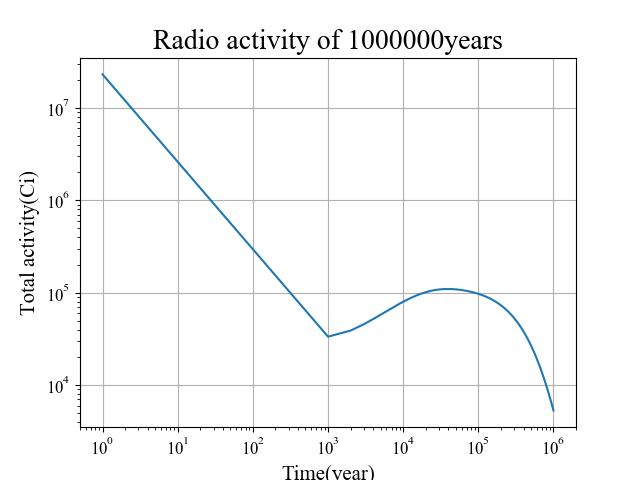
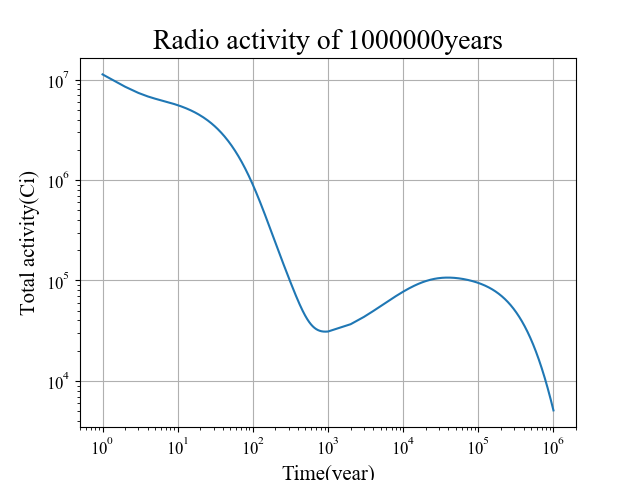
modified the code to calculate the cases with powers already existed in the library.

diff --git a/func.py b/func.py
@@ -11,7 +11,6 @@ from scipy.interpolate import lagrange  # Lagrange 插值方法
 from decay.decay import CRAM48  # 导入decay模块
 
 
-# 卸堆核素浓度计算
 def mass_off(time, index1, index2):
     f = h5py.File(sys.path[0] + "/lib/FCDB.hdf5", "r")
     s1 = "MSBR_0" + str(index1 + 1) + "/"
@@ -33,11 +32,11 @@ def initialize(P):
         for key, value in grp.attrs.items():
             if key == "SpecificPower":
                 PowerDensity = np.append(PowerDensity, value)
-
     # 根据给定的功率密度对核素浓度进行插值
     for i in range(num):
         if float(P) == PowerDensity[i]:
-            pass  # 有待添加
+            min0 = i
+            max0 = i
     for i in range(num - 1):
         if PowerDensity[i] < float(P) < PowerDensity[i + 1]:
             min0 = i  # mass 函数输入参数
@@ -146,12 +145,15 @@ def fission_product(power):
           1352, 1353, 1355, 1356, 1357, 1358, 1359, 1360, 1361, 1362, 1369, 1370, 1372, 1373, 1374, 1375, 1385,
           1386]
     for j in fp:
-        m1 = mass_off(year, min, j)
-        m2 = mass_off(year, max, j)
-        x = [PowerDensity[min], PowerDensity[max]]
-        y = [m1, m2]
-        func = lagrange(x, y)
-        m3 = func(float(power))
+        if min == max:
+            m3 = mass_off(year, min, j)
+        else:
+            m1 = mass_off(year, min, j)
+            m2 = mass_off(year, max, j)
+            x = [PowerDensity[min], PowerDensity[max]]
+            y = [m1, m2]
+            func = lagrange(x, y)
+            m3 = func(float(power))
         Mass_fp = Mass_fp + mole2kg(m3, j)
     return Mass_fp
 
@@ -165,12 +167,15 @@ def transuranium(power):
            1640, 1641, 1642, 1643, 1644, 1645, 1646, 1647, 1648, 1649, 1650, 1651, 1652, 1653, 1654, 1655, 1656,
            1657, 1658, 1659, 1660, 1661, 1662, 1663, 1664, 1665, 1666, 1667, 1668, 1669]
     for i in tru:
-        m1 = mass_off(year, min, i)
-        m2 = mass_off(year, max, i)
-        x = [PowerDensity[min], PowerDensity[max]]
-        y = [m1, m2]
-        func = lagrange(x, y)
-        m3 = func(float(power))
+        if min == max:
+            m3 = mass_off(year, min, i)
+        else:
+            m1 = mass_off(year, min, i)
+            m2 = mass_off(year, max, i)
+            x = [PowerDensity[min], PowerDensity[max]]
+            y = [m1, m2]
+            func = lagrange(x, y)
+            m3 = func(float(power))
         Mass_tru = Mass_tru + mole2kg(m3, i)
     return Mass_tru
 
@@ -192,16 +197,20 @@ def mass(time, index1, index2):
 def nuc1(power, nuclid):
     year = 109  # 年份，单位：年
     min, max, PowerDensity = initialize(power)
-    # 准备插值数据
-    mass1 = mass(year, min, nuclid)
-    mass2 = mass(year, max, nuclid)
-    # 插值
     mass3 = np.array([])
-    for i in range(0, year + 1):
-        x = [PowerDensity[min], PowerDensity[max]]
-        y = [mass1[i], mass2[i]]
-        func = lagrange(x, y)
-        mass3 = np.append(mass3, func(float(power)))
+    if min == max:
+        mass3 = mass(year, min, nuclid)
+    else:
+        # 准备插值数据
+        mass1 = mass(year, min, nuclid)
+        mass2 = mass(year, max, nuclid)
+        # 插值
+        for i in range(0, year + 1):
+            x = [PowerDensity[min], PowerDensity[max]]
+            y = [mass1[i], mass2[i]]
+            func = lagrange(x, y)
+            mass3 = np.append(mass3, func(float(power)))
+
     return mass3[0]  # 初装量
 
 
@@ -209,16 +218,20 @@ def nuc1(power, nuclid):
 def nuc2(power, nuclid):
     year = 109  # 年份，单位：年
     min, max, PowerDensity = initialize(power)
-    # 准备插值数据
-    mass1 = mass(year, min, nuclid)
-    mass2 = mass(year, max, nuclid)
-    # 插值
     mass3 = np.array([])
-    for i in range(0, year + 1):
-        x = [PowerDensity[min], PowerDensity[max]]
-        y = [mass1[i], mass2[i]]
-        func = lagrange(x, y)
-        mass3 = np.append(mass3, func(float(power)))
+    if min == max:
+        mass3 = mass(year, min, nuclid)
+    else:
+        # 准备插值数据
+        mass1 = mass(year, min, nuclid)
+        mass2 = mass(year, max, nuclid)
+        # 插值
+        for i in range(0, year + 1):
+            x = [PowerDensity[min], PowerDensity[max]]
+            y = [mass1[i], mass2[i]]
+            func = lagrange(x, y)
+            mass3 = np.append(mass3, func(float(power)))
+
     return mass3[109]  # 卸堆量
 
 
@@ -279,16 +292,19 @@ def paint_decay(time, name, value, kind):
 def nuclide_evolution(power, nuclid):
     year = 109  # 年份，单位：年
     min, max, PowerDensity = initialize(power)
-    # 准备插值数据
-    mass1 = mass(year, min, nuclid)
-    mass2 = mass(year, max, nuclid)
-    # 插值
     mass3 = np.array([])
-    for i in range(0, year + 1):
-        x = [PowerDensity[min], PowerDensity[max]]
-        y = [mass1[i], mass2[i]]
-        func = lagrange(x, y)
-        mass3 = np.append(mass3, func(float(power)))
+    if min == max:
+        mass3 = mass(year, min, nuclid)
+    else:
+        # 准备插值数据
+        mass1 = mass(year, min, nuclid)
+        mass2 = mass(year, max, nuclid)
+        # 插值
+        for i in range(0, year + 1):
+            x = [PowerDensity[min], PowerDensity[max]]
+            y = [mass1[i], mass2[i]]
+            func = lagrange(x, y)
+            mass3 = np.append(mass3, func(float(power)))
     return mass3
 
 
@@ -311,7 +327,9 @@ def paint_activity(decay_time, mass_off):
     if decay_time == 100:
         time = [t for t in range(1, decay_time + 1, int(decay_time / 100))]
     else:
-        time = [t for t in range(1, decay_time + 1, int(decay_time / 1000))]
+        s1 = [t for t in range(1, 1001)]
+        s2 = [t for t in range(1001, decay_time + 1, int(decay_time / 1000))]
+        time = s1 + s2
     act = [radio_activity(t, mass_off) for t in time]
     plt.loglog(time, act)
     plt.savefig(sys.path[0] + "/figs/" + "activity_" + str(decay_time) + ".png")

diff --git a/test/temp.py b/test/temp.py
@@ -1,29 +1,12 @@
 #!/usr/bin/python
 # -*- coding:utf-8 -*-
 
-# 衰变阶段计算
+from func import hb
 
-    n0 = np.zeros(1693, dtype=np.float64)  # 置零
-    n0[nuclid] = mass3[year]
 
-    # 计算初始时刻的值
-    y, y_act, y_q, y_toxi = CRAM48(n0, 0)
-    concentration = np.array([])
-    concentration = np.append(concentration, y[nuclid])
-    activity = np.array([])
-    activity = np.append(activity, y_act[nuclid])
-    heat = np.array([])
-    heat = np.append(heat, y_q[nuclid])
-    toxicity = np.array([])
-    toxicity = np.append(toxicity, y_toxi[nuclid])
+decay_time = 1000000
+s1 = [t for t in range(1, 1001)]
+s2 = [t for t in range(1001, decay_time + 1, int(decay_time / 1000))]
 
-    tl = input()
-    for i in range(1, int(tl) + 1, int(int(tl) * 0.01)):
-        dt = float(i) * 365.25 * 24. * 3600.
-        y, y_act, y_q, y_toxi = CRAM48(n0, dt)
-        concentration = np.append(concentration, y[nuclid])
-        activity = np.append(activity, y_act[nuclid])
-        heat = np.append(heat, y_q[nuclid])
-        toxicity = np.append(toxicity, y_toxi[nuclid])
-
-    f.close()
+time = s1 + s2
+print(time)

diff --git a/main.py b/main.py
@@ -102,7 +102,7 @@ paint_activity(decay_time, mass_off)
 
 decay_time = 1000000
 total_act = radio_activity(decay_time, mass_off)
-f.write("radioactive_1000thy_spent_fuel(Ci/GWe-yr):" + "\n")
+f.write("radioactive_10000thy_spent_fuel(Ci/GWe-yr):" + "\n")
 f.write(str(total_act / power_electricity / year) + "\n")
 
 paint_activity(decay_time, mass_off)
